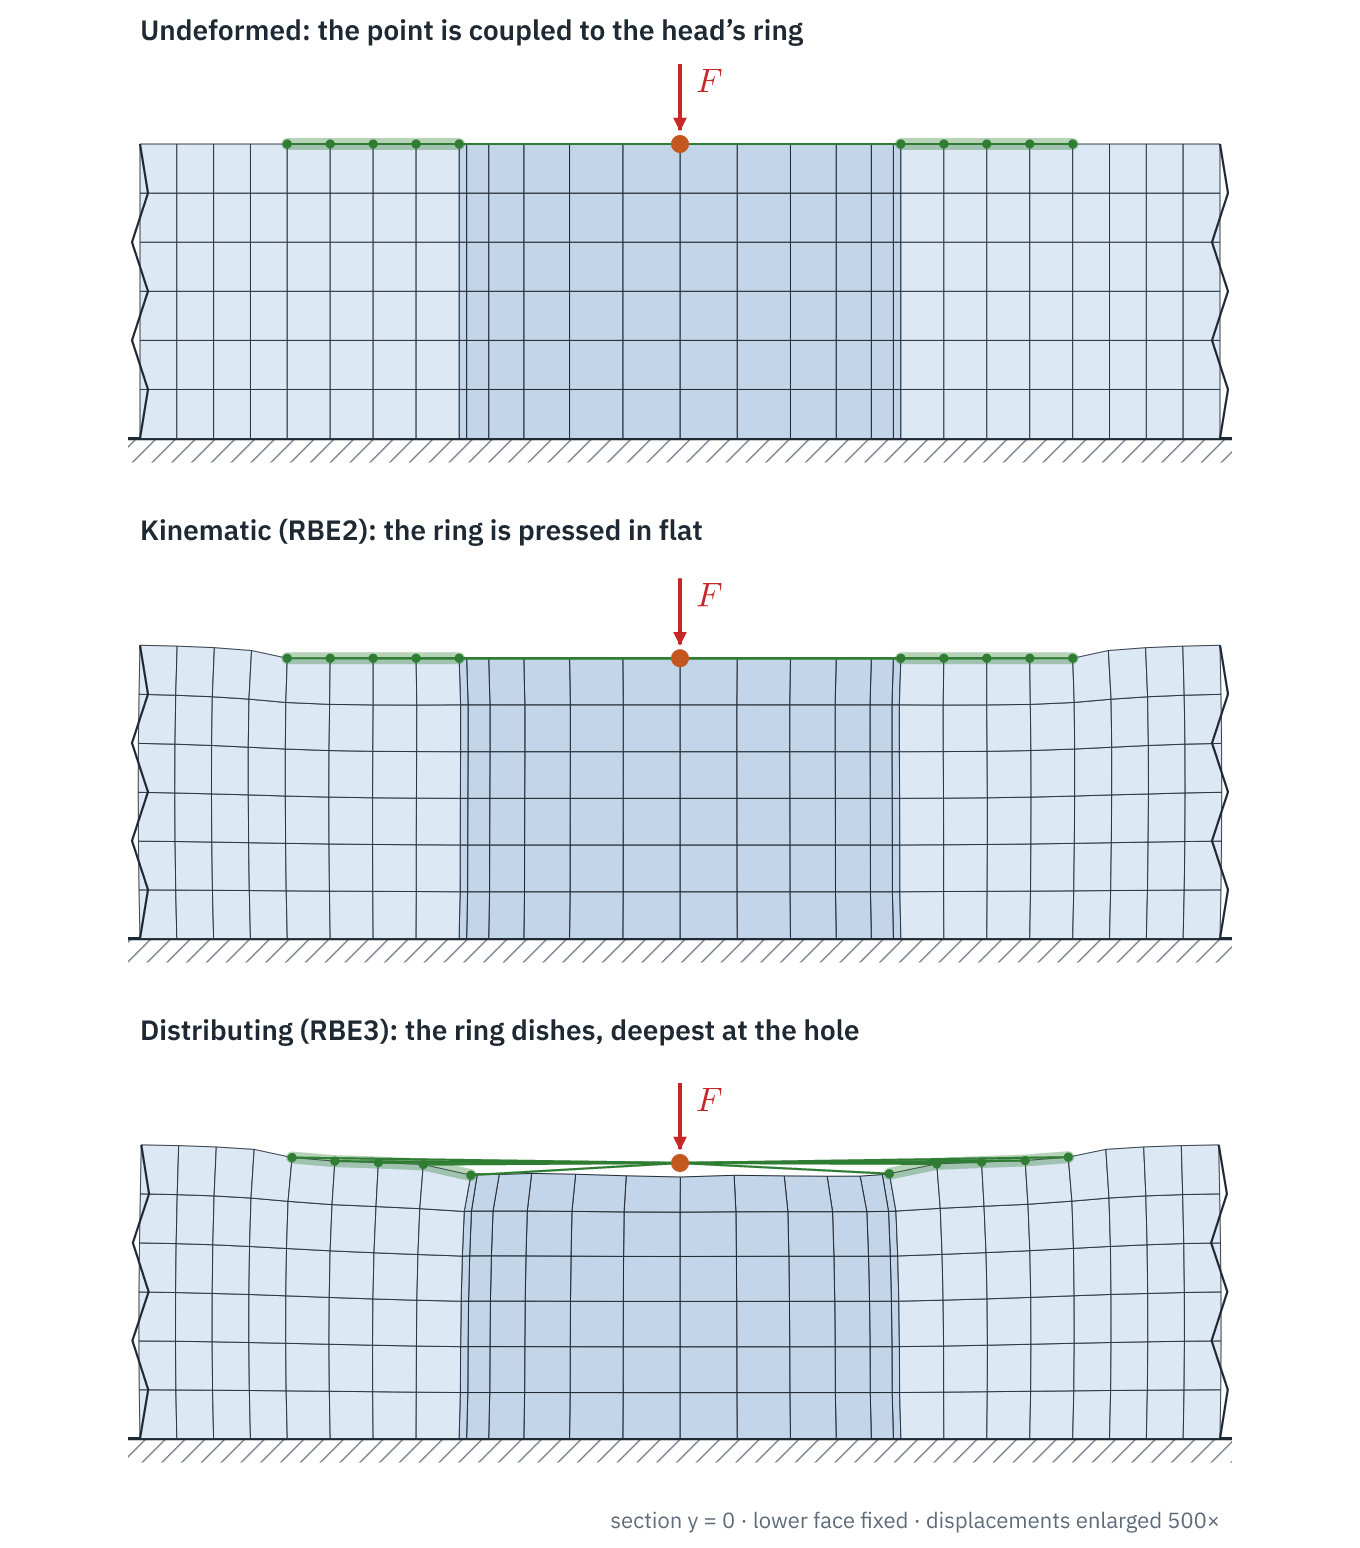
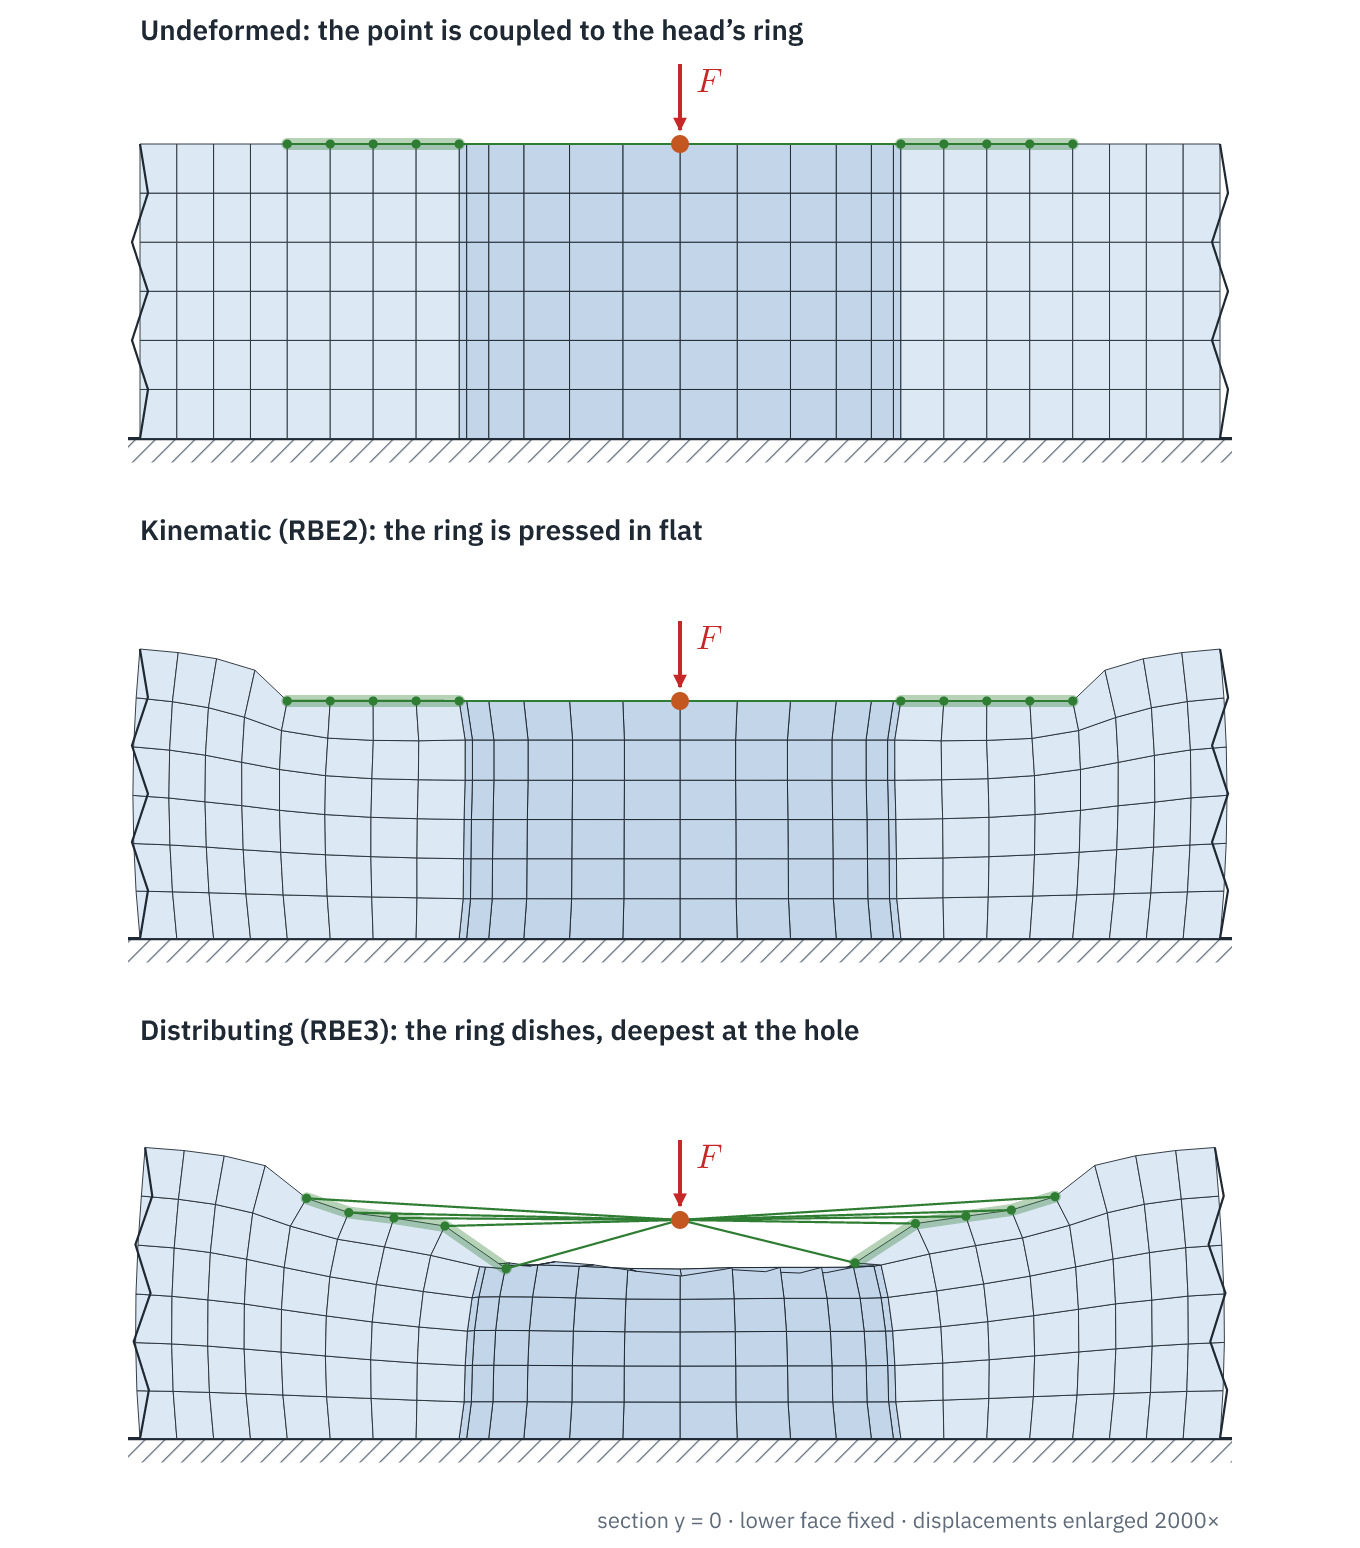
Enlarge the screw section drawing's deformation to 2000×
The schematic now draws the deepest point of the section 3 mm deep, half
the plate's thickness, so the dent is plain to see without any cell of the
grid folding over. The result viewers keep their own, smaller enlargement.

Refs KOF-421

Claude-Session: https://claude.ai/code/session_01G8ZFvxz9qYemXJYCNfkzx9

Changed region(s): [[0.0926, 0.3721, 0.9265, 0.5891], [0.0926, 0.7132, 0.9265, 0.9302], [0.4324, 0.9612, 0.8647, 0.9922]]

diff --git a/web/theory/numerical-methods/couplings/index.html b/web/theory/numerical-methods/couplings/index.html
@@ -895,7 +895,7 @@
       with quadratic tetrahedra, once with each coupling.</p>
     <figure class="theory-figure full" id="figure-coupling-screw-sections">
       <a href="/theory/figures/coupling-screw-sections.svg" class="figure-link"><picture class="figure-image"><source srcset="/theory/figures/coupling-screw-sections.svg" type="image/svg+xml" /><img src="/theory/figures/coupling-screw-sections.png" width="680" height="774" alt="Three sections around the hole of a plate whose lower face is fixed, cut through the screw axis, each with a fine structured grid on the cut face and the back half of the hole visible between the two sides. A point on the axis is joined by legs to the ring of the top face around the hole and carries the screw force. Undeformed, the plate is flat. With a kinematic coupling the ring is pressed in flat. With a distributing coupling the ring dishes, deepest at the hole edge." loading="lazy" decoding="async" /></picture></a>
-      <figcaption>The section through the screw axis, drawn from the two solves: the displacement of each grid point and of the back of the hole is the solved field there. The legs run from the point to the ring's nodes on the cut. The grid is a drawing of the section; the solves use the tetrahedral mesh. Displacements enlarged 500×.</figcaption>
+      <figcaption>The section through the screw axis, drawn from the two solves: the displacement of each grid point and of the back of the hole is the solved field there. The legs run from the point to the ring's nodes on the cut. The grid is a drawing of the section; the solves use the tetrahedral mesh. Displacements enlarged 2000×.</figcaption>
     </figure>
     <div class="table-wrap" tabindex="0" role="region" aria-label="The screw head on the plate, by coupling; scroll horizontally if needed"><table>
     <caption>The screw head on the plate, by coupling</caption><thead><tr><th scope="col"></th><th scope="col">Kinematic (RBE2)</th><th scope="col">Distributing (RBE3)</th></tr></thead>
